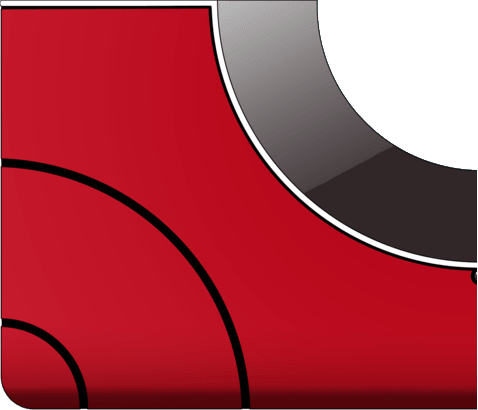
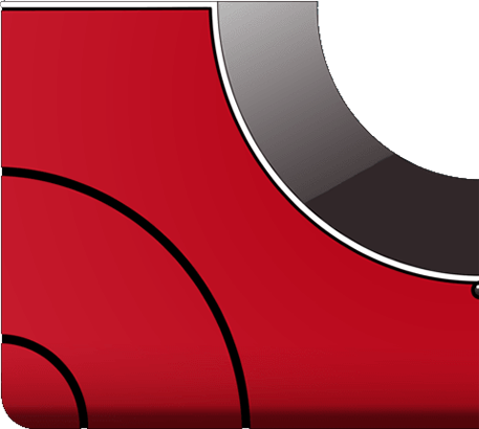
search function added

diff --git a/script.js b/script.js
@@ -134,7 +134,7 @@ async function renderAllPokemons() {
 
         let currentPokemon = i;
 
-        pokemonName = results[currentPokemon]['name'];
+        pokemonName = results[currentPokemon - 1]['name'];
         pokemonNameUpperCase = pokemonName.charAt(0).toUpperCase() + pokemonName.slice(1);
         url2 = `https://pokeapi.co/api/v2/pokemon/${currentPokemon}/`; 
         response2 = await fetch(url2);
@@ -172,9 +172,7 @@ function smallPokemonCardTemplate(currentPokemon, pokemonImg, pokemonNameUpperCa
             </div>
         </div>
     `;
-
     //<img src="./img/icons/favorite empty.png">
-
 }
 
 /* async function getDataFromEvolutionUrl(currentPokemon) {
@@ -187,6 +185,52 @@ function smallPokemonCardTemplate(currentPokemon, pokemonImg, pokemonNameUpperCa
     secondEvo = overviewStats4['chain']['evolves_to'][0]['evolves_to'][0]['species']['name']; 
     thirdEvo = overviewStats4['chain']['evolves_to'][0]['evolves_to']['evolves_to']['species']['name'];    
 } */
+
+
+/* =========================================================== SEARCH FUNCTUION ================================================== */
+
+function enterKeyPressed(event) {
+    if (event.keyCode === 13) {
+        search();
+    }
+}
+
+async function search() {   
+    let search = document.getElementById('search').value;
+    search = search.toLowerCase();
+
+    let allPokemons = document.getElementById('allPokemons');
+    allPokemons.innerHTML = '';
+
+    if(search == '') {
+        nextPokemonCounter = 31;
+        currentPokemonCounter = 1;
+        renderAllPokemons();
+    } else {
+
+        for (let i = 1; i < nextPokemonCounter; i++) {
+
+            let currentPokemon = i;
+    
+            pokemonName = results[currentPokemon - 1]['name'];
+            pokemonNameUpperCase = pokemonName.charAt(0).toUpperCase() + pokemonName.slice(1);
+            url2 = `https://pokeapi.co/api/v2/pokemon/${currentPokemon}/`; 
+            response2 = await fetch(url2);
+            overviewStats2 = await response2.json();
+            pokemonImg = overviewStats2['sprites']['other']['dream_world']['front_default'];
+            type = overviewStats2['types'][0]['type']['name'];  
+            typeUpperCase = type.charAt(0).toUpperCase() + type.slice(1);
+    
+            if(pokemonName.toLowerCase().includes(search) || type.toLowerCase().includes(search)){
+                allPokemons.innerHTML += smallPokemonCardTemplate(currentPokemon, pokemonImg, pokemonNameUpperCase, typeUpperCase);
+                
+                document.getElementById('type' + currentPokemon).classList.add(type);
+                document.getElementById('cardHeader' + currentPokemon).classList.add(type);
+            } 
+        }
+
+    }
+ }
 
 /* =========================================================== OPEN POKEMON CARD ================================================== */
 async function openPokemonCard(currentPokemon) {

diff --git a/pokedex.html b/pokedex.html
@@ -28,7 +28,7 @@
                     <img src="./img/icons/search.png" class="icon"/>
                     </div>
                     <div>
-                    <input id="search" onkeydown="search()" type="text" placeholder="Search"/>
+                    <input id="search" type="text" placeholder="Search..." onkeypress="return enterKeyPressed(event)"/>
                     </div>
                 </div>
                 <div class="close" onclick="closePokedex()">
@@ -64,10 +64,10 @@
     <div class="subContainer" id="subContainer">
         <div class="upperHalf" id="upperHalf">
             <div class="corner">
-                <img id="corner1" src="./img/top left corner2.png">
+                <img id="corner1" src="./img/top left corner.png">
             </div>
             <div class="corner">
-                <img id="corner2" src="./img/top right corner2.png">
+                <img id="corner2" src="./img/top right corner.png">
             </div>
         </div>
         <div class="startButton" id="startButton" onclick="openPokedex()">
@@ -75,10 +75,10 @@
         </div>
         <div class="lowerHalf" id="lowerHalf">
             <div class="corner">
-                <img id="corner3" src="./img/bottom left corner2.png">
+                <img id="corner3" src="./img/bottom left corner.png">
             </div>
             <div class="corner">
-                <img id="corner4" src="./img/bottom right corner2.png">
+                <img id="corner4" src="./img/bottom right corner.png">
             </div>
         </div>
     </div>

diff --git a/style.css b/style.css
@@ -149,6 +149,7 @@ body {
     width: 100%;
 }
 
+
 .corner > img {
     height: 206px;
     width: 241px;
@@ -170,11 +171,13 @@ body {
 
 .search {
     display: flex;
-    justify-content: space-evenly;
+    justify-content: space-between;
     align-items: center;
     height: 8%;
     width: 100%;
     border-bottom: 1px solid rgba(255,255,255,0.5);
+    padding-left: 1.5rem;
+    padding-right: 1.5rem;
 }
 
 .search>div:first-of-type {
@@ -411,6 +414,7 @@ body {
     align-items: center;
     display: none;
     background: rgba(0,0,0,0.7);
+    z-index: 5;
 }
 
 .display {
@@ -547,7 +551,7 @@ body {
     padding: 0.5rem;
     padding: 1rem 2rem 1rem 2rem;
     gap: 0.5rem;
-    height: 200px;
+    height: 100%;
 }
 
 .movesData {
@@ -602,9 +606,6 @@ body {
 
 /* ================================================================================== */
 
-
-
-
 .infoData > div, .statsData > div, .movesData > div  {
     width: 100%;
     display: flex;
@@ -630,6 +631,15 @@ body {
     font-weight: bold;
     width: 25px;
 }
+
+.movesData > div > div:first-of-type {
+    width: 30px;
+}
+
+.movesData > div > div:last-of-type {
+    font-weight: bold;
+}
+
 
 .progressBar {
     width: 140px;
@@ -750,10 +760,10 @@ body {
     display: none;
     justify-content: space-between;
     align-items: center;
-    padding: 1rem;
+    padding: 0.8rem;
     width: 200px;
     border-radius: 10px;
-    background-color: rgba(0,0,0,0.8);
+    background-color: rgba(0,0,0,0.6);
     animation: fadeIn 5s;
 }
 
